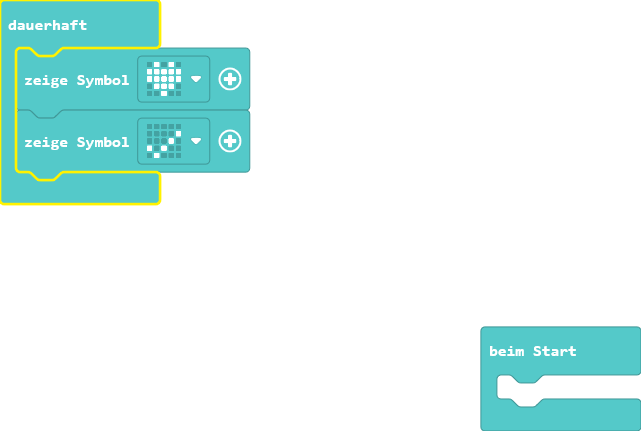
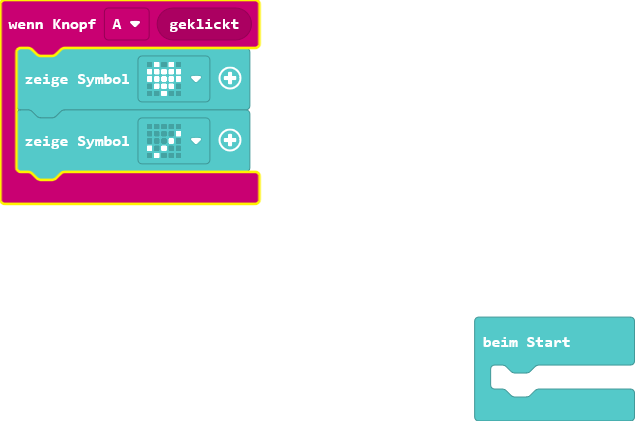
Aktualisiere main.blocks, main.ts

diff --git a/main.ts b/main.ts
@@ -1,4 +1,4 @@
-basic.forever(function () {
+input.onButtonEvent(Button.A, input.buttonEventClick(), function () {
     basic.showIcon(IconNames.Heart)
     basic.showIcon(IconNames.Yes)
 })
